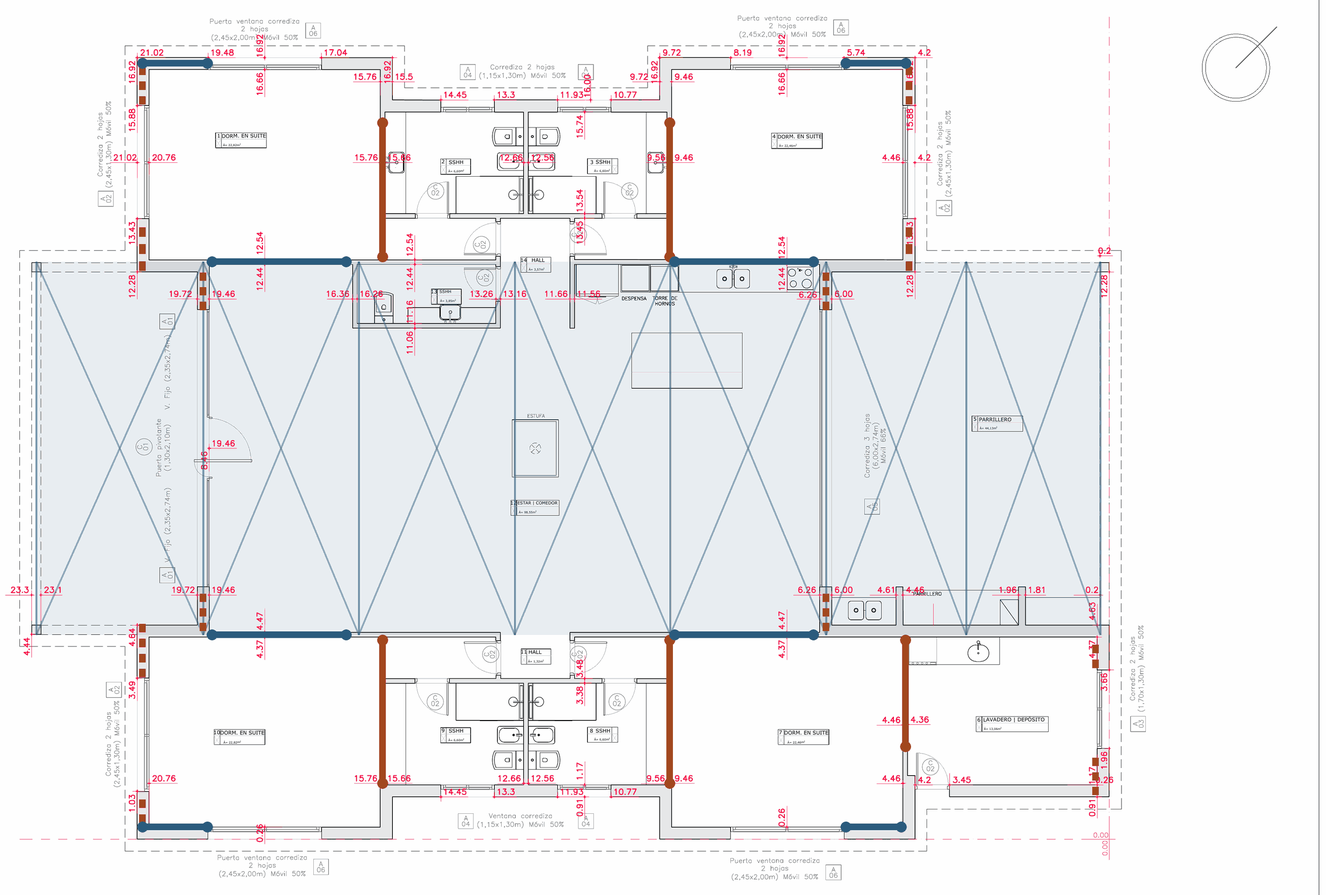
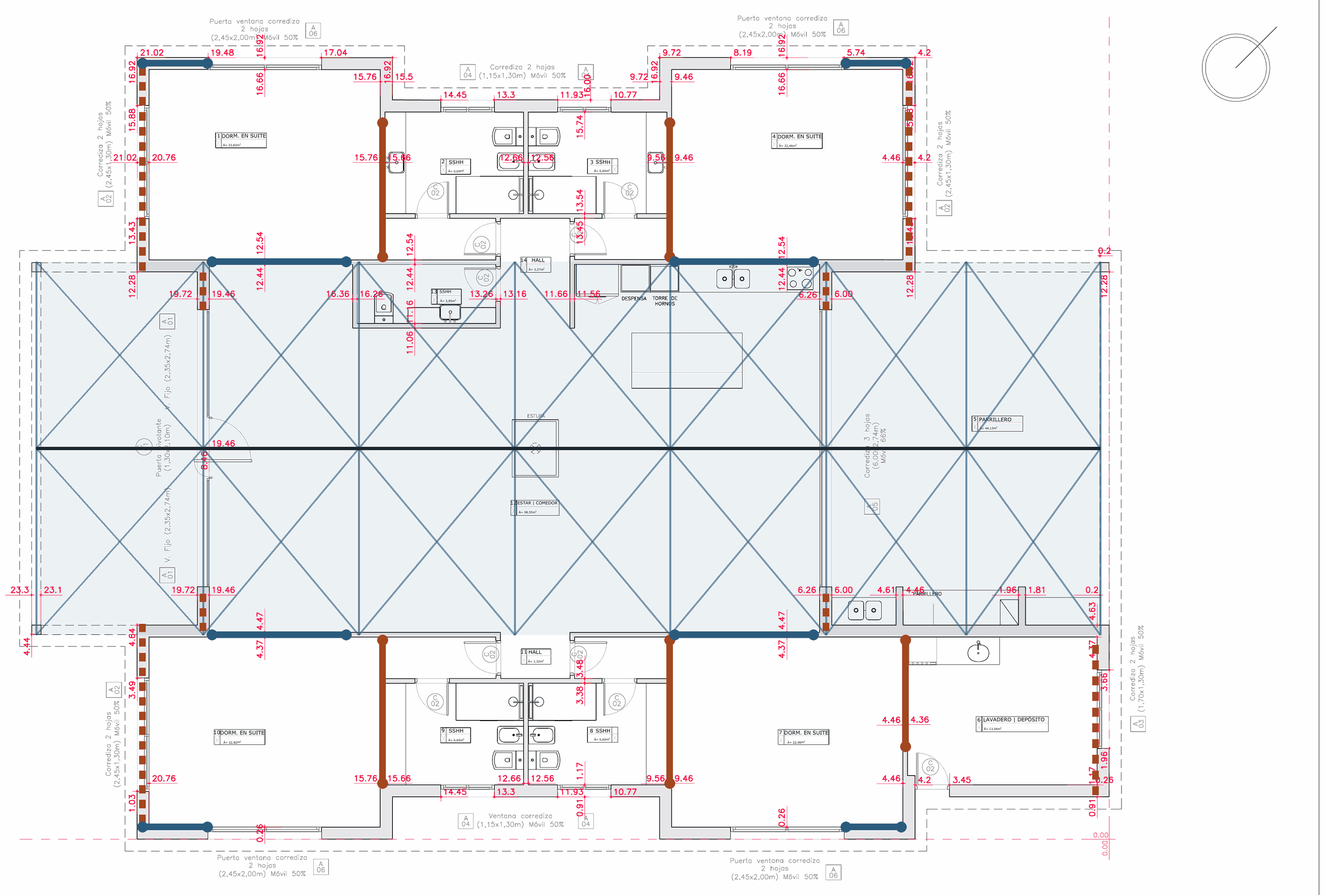
Estudio de techo: cercha tecnica, herrajes ocultos, Isoroof y cruces en fleje
- Alzado tecnico de la cercha y detalle del empalme del tirante con planchuela embutida
- Pestaña nueva del techo Isoroof
- Cruces de San Andres en fleje de steel framing, una por faldon y por paño

Claude-Session: https://claude.ai/code/session_0177j3xN1VyaLSuXgwCKdhyd

diff --git a/estudio-techo/index.html b/estudio-techo/index.html
@@ -67,68 +67,84 @@ a{color:var(--steel)}
 
 <nav class="tabs" aria-label="Partes del estudio"><div class="wrap" role="tablist">
 <button role="tab" data-t="resumen">Resumen</button>
-<button role="tab" data-t="cercha">Cercha</button>
+<button role="tab" data-t="cercha">Cercha y herrajes</button>
 <button role="tab" data-t="cargas">Cargas, columnas y encadenado</button>
+<button role="tab" data-t="techo">Techo Isoroof</button>
 <button role="tab" data-t="cruces">Viento y cruces</button>
 <button role="tab" data-t="anclajes">Anclajes</button>
 </div></nav>
-
 <main class="wrap">
 
 <section class="panel" id="resumen">
-<h2>Columnas y encadenado en caño 100 × 100 × 3,2 mm</h2>
-<p class="lead">Nave central de cerchas de lapacho 20 × 20 con 8,05 m de luz, sobre columnas de caño de 3,00 m, con cubierta de Isoroof 30 mm sobre machimbre.</p>
+<h2>Columnas y encadenado en caño 100 × 100 × 3,2 mm, arriostrados con cruces de steel framing</h2>
+<p class="lead">Nave central de cerchas de lapacho 20 × 20 con 8,05 m de luz, sobre columnas de caño de 3,00 m. Techo a dos aguas de 23,9 m de largo, con Isoroof 30 mm sobre machimbre.</p>
 <div class="grid">
 <div class="stat w"><b>950 kg</b><span>pesa cada cercha de lapacho</span></div>
 <div class="stat"><b>2,1 t</b><span>recibe cada columna en servicio</span></div>
 <div class="stat s"><b>3,2 mm</b><span>espesor de pared para columnas y encadenado, en 100 × 100</span></div>
-<div class="stat"><b>13 cruces</b><span>de San Andrés en muros, más el plano del techo</span></div>
+<div class="stat"><b>27 cruces</b><span>de San Andrés en fleje: 13 en muros y 14 en el techo</span></div>
 </div>
 <div class="tw"><table>
 <tr><th>Tema</th><th>Resultado</th></tr>
-<tr><td>Cercha</td><td>950 kg cada una; pesa más que el techo que sostiene</td></tr>
-<tr><td>Columnas</td><td>Caño 100 × 100 × 3,2 mm; el de 2 mm se descarta</td></tr>
-<tr><td>Encadenado superior</td><td>Caño 100 × 100 × 3,2 mm, el mismo de las columnas</td></tr>
-<tr><td>Acero</td><td>ASTM A500 Grado B, galvanizado o con epoxi por la cercanía al mar</td></tr>
-<tr><td>Arriostramiento</td><td>5 cruces transversales, 8 longitudinales y cruces en el techo</td></tr>
-<tr><td>Anclajes</td><td>Cada apoyo se ancla para 0,9 t de tracción por viento</td></tr>
+<tr><td>Cercha</td><td>950 kg cada una. Tirante en dos tramos de 4,02 m unidos con planchuela embutida</td></tr>
+<tr><td>Herrajes</td><td>Ocultos: planchuelas de 8 mm en ranura y pasadores Ø16 con tapón de lapacho</td></tr>
+<tr><td>Columnas y encadenado</td><td>Caño 100 × 100 × 3,2 mm, acero ASTM A500 Grado B</td></tr>
+<tr><td>Techo</td><td>Isoroof 30 mm sobre machimbre: 48 paneles de 1,00 × 4,30 m en la nave</td></tr>
+<tr><td>Arriostramiento</td><td>Cruces de San Andrés con fleje galvanizado de steel framing, en muros y techo</td></tr>
+<tr><td>Anclajes</td><td>Cada apoyo se ancla para tracción por viento</td></tr>
 </table></div>
 </section>
 
 <section class="panel" id="cercha">
-<h2>Cada cercha pesa 950 kg</h2>
-<figure><svg viewBox="0 0 1400 420" role="img" aria-label="Alzado de la cercha con cotas">
-<polygon points="100,330 1300,330 1300,286.6 700,69 100,286.6" fill="#C98A5B" stroke="#1C2730" stroke-width="2.5"/>
-<polygon points="149.9,300.2 685.1,300.2 685.1,106.1" fill="#fff" stroke="#1C2730" stroke-width="2.5"/>
-<polygon points="1250.1,300.2 714.9,300.2 714.9,106.1" fill="#fff" stroke="#1C2730" stroke-width="2.5"/>
-<polygon points="685.1,300.2 405.7,207.4 450.9,191 685.1,268.8" fill="#C98A5B" stroke="#1C2730" stroke-width="2.5"/>
-<polygon points="714.9,300.2 994.3,207.4 949.1,191 714.9,268.8" fill="#C98A5B" stroke="#1C2730" stroke-width="2.5"/>
-<rect x="107.5" y="331" width="15" height="42" fill="#2B5C7E"/><rect x="1277.5" y="331" width="15" height="42" fill="#2B5C7E"/>
-<g stroke="#4B5661" stroke-width="1.5" fill="none">
-<line x1="100" y1="398" x2="1300" y2="398"/><line x1="100" y1="388" x2="100" y2="408"/><line x1="1300" y1="388" x2="1300" y2="408"/>
-<line x1="50" y1="69" x2="50" y2="330"/><line x1="40" y1="69" x2="690" y2="69" stroke-dasharray="6 6"/><line x1="40" y1="330" x2="95" y2="330"/>
-<line x1="1350" y1="286.6" x2="1350" y2="330"/><line x1="1305" y1="286.6" x2="1360" y2="286.6"/><line x1="1305" y1="330" x2="1360" y2="330"/>
-<line x1="713.6" y1="31.4" x2="1313.6" y2="249"/><line x1="703" y1="60" x2="717" y2="22"/><line x1="1303" y1="278" x2="1317" y2="240"/>
-</g>
-<g font-family="IBM Plex Mono, Courier New, monospace" font-size="22" fill="#1C2730">
-<rect x="640" y="384" width="120" height="28" fill="#fff"/><text x="700" y="406" text-anchor="middle">8,05 m</text>
-<text x="38" y="200" text-anchor="middle" transform="rotate(-90 38 200)">1,75 m</text>
-<text x="1396" y="358" text-anchor="end">0,29 m</text>
-<text x="1040" y="118">4,28 m</text>
-<text x="250" y="170" fill="#A3481F">19,9° · 36 %</text>
-</g>
-</svg>
-<figcaption>Todas las piezas en lapacho 20 × 20 cm. Apoya en una columna de caño en cada extremo, sin apoyo intermedio.</figcaption>
+<h2>Cada cercha pesa 950 kg y lleva los herrajes ocultos</h2>
+<figure><svg viewBox="0 0 1400 545" role="img" aria-label="Alzado técnico de la cercha tipo con cotas, ejes y nudos"><style>.o{stroke:#000;stroke-width:1.8;fill:none}.h{stroke:#000;stroke-width:1.1;fill:none}.d{stroke:#000;stroke-width:.8;fill:none}.t{stroke:#000;stroke-width:1.6}.c{stroke:#000;stroke-width:.7;stroke-dasharray:18 4 3 4;fill:none}.hid{stroke:#000;stroke-width:1.2;stroke-dasharray:7 4;fill:none}text{fill:#000}</style><rect x="1" y="1" width="1398" height="543" class="d"/><defs><pattern id="hw" width="9" height="9" patternUnits="userSpaceOnUse" patternTransform="rotate(45)"><line x1="0" y1="0" x2="0" y2="9" stroke="#000" stroke-width=".6"/></pattern><pattern id="hs" width="4" height="4" patternUnits="userSpaceOnUse" patternTransform="rotate(-45)"><line x1="0" y1="0" x2="0" y2="4" stroke="#000" stroke-width="1.1"/></pattern></defs><polygon points="100,370 1300,370 1300,326.6 700,109 100,326.6" class="o"/><polygon points="149.9,340.2 685.1,340.2 685.1,146.1" class="o"/><polygon points="1250.1,340.2 714.9,340.2 714.9,146.1" class="o"/><polygon points="685.1,340.2 405.7,247.4 450.9,231 685.1,308.8" style="fill:#fff" class="o"/><polygon points="714.9,340.2 994.3,247.4 949.1,231 714.9,308.8" style="fill:#fff" class="o"/><line x1="100" y1="340.2" x2="149.9" y2="340.2" class="h"/><line x1="1250.1" y1="340.2" x2="1300" y2="340.2" class="h"/><line x1="685.1" y1="146.1" x2="685.1" y2="114.4" class="h"/><line x1="714.9" y1="146.1" x2="714.9" y2="114.4" class="h"/><line x1="700" y1="340.2" x2="700" y2="370" class="t"/><line x1="70" y1="355.1" x2="1330" y2="355.1" class="c"/><line x1="700" y1="80" x2="700" y2="390" class="c"/><line x1="80" y1="349.7" x2="712" y2="120.5" class="c"/><line x1="1320" y1="349.7" x2="688" y2="120.5" class="c"/><rect x="107.5" y="371" width="15" height="50" style="fill:url(#hs)" class="o"/><rect x="1277.5" y="371" width="15" height="50" style="fill:url(#hs)" class="o"/><line x1="100.0" y1="449.0" x2="700.0" y2="449.0" class="d"/><line x1="100.0" y1="427.0" x2="100.0" y2="457.0" class="d"/><line x1="93.0" y1="442.0" x2="107.0" y2="456.0" class="t"/><line x1="700.0" y1="427.0" x2="700.0" y2="457.0" class="d"/><line x1="693.0" y1="442.0" x2="707.0" y2="456.0" class="t"/><text x="400.0" y="436.0" text-anchor="middle" dominant-baseline="middle" transform="rotate(0.0 400.0 436.0)" font-size="17" font-family="'IBM Plex Mono','Courier New',monospace">4,02</text><line x1="700.0" y1="449.0" x2="1300.0" y2="449.0" class="d"/><line x1="700.0" y1="427.0" x2="700.0" y2="457.0" class="d"/><line x1="693.0" y1="442.0" x2="707.0" y2="456.0" class="t"/><line x1="1300.0" y1="427.0" x2="1300.0" y2="457.0" class="d"/><line x1="1293.0" y1="442.0" x2="1307.0" y2="456.0" class="t"/><text x="1000.0" y="436.0" text-anchor="middle" dominant-baseline="middle" transform="rotate(0.0 1000.0 436.0)" font-size="17" font-family="'IBM Plex Mono','Courier New',monospace">4,02</text><line x1="100.0" y1="483.0" x2="1300.0" y2="483.0" class="d"/><line x1="100.0" y1="427.0" x2="100.0" y2="491.0" class="d"/><line x1="93.0" y1="476.0" x2="107.0" y2="490.0" class="t"/><line x1="1300.0" y1="427.0" x2="1300.0" y2="491.0" class="d"/><line x1="1293.0" y1="476.0" x2="1307.0" y2="490.0" class="t"/><text x="700.0" y="470.0" text-anchor="middle" dominant-baseline="middle" transform="rotate(0.0 700.0 470.0)" font-size="17" font-family="'IBM Plex Mono','Courier New',monospace">8,05</text><line x1="42.0" y1="370.0" x2="42.0" y2="109.0" class="d"/><line x1="94.0" y1="370.0" x2="34.0" y2="370.0" class="d"/><line x1="49.0" y1="377.0" x2="35.0" y2="363.0" class="t"/><line x1="94.0" y1="109.0" x2="34.0" y2="109.0" class="d"/><line x1="49.0" y1="116.0" x2="35.0" y2="102.0" class="t"/><text x="50.0" y="241.0" text-anchor="start" dominant-baseline="middle" font-size="17" font-family="'IBM Plex Mono','Courier New',monospace">1,75</text><line x1="48" y1="109" x2="690" y2="109" class="d" stroke-dasharray="5 5"/><line x1="1340.0" y1="326.6" x2="1340.0" y2="370.0" class="d"/><line x1="1306.0" y1="326.6" x2="1348.0" y2="326.6" class="d"/><line x1="1333.0" y1="319.6" x2="1347.0" y2="333.6" class="t"/><line x1="1306.0" y1="370.0" x2="1348.0" y2="370.0" class="d"/><line x1="1333.0" y1="363.0" x2="1347.0" y2="377.0" class="t"/><text x="1350.0" y="349.0" text-anchor="start" dominant-baseline="middle" font-size="17" font-family="'IBM Plex Mono','Courier New',monospace">0,29</text><line x1="713.6" y1="71.4" x2="1313.6" y2="289.0" class="d"/><line x1="702.0" y1="103.4" x2="716.4" y2="63.9" class="d"/><line x1="704.7" y1="75.6" x2="722.6" y2="67.2" class="t"/><line x1="1302.0" y1="321.0" x2="1316.4" y2="281.5" class="d"/><line x1="1304.7" y1="293.2" x2="1322.6" y2="284.8" class="t"/><text x="1030.0" y="162.0" text-anchor="middle" dominant-baseline="middle" transform="rotate(19.9 1030.0 162.0)" font-size="17" font-family="'IBM Plex Mono','Courier New',monospace">4,28</text><line x1="215.0" y1="340.2" x2="215.0" y2="370.0" class="d"/><line x1="222.0" y1="333.2" x2="208.0" y2="347.2" class="t"/><line x1="222.0" y1="363.0" x2="208.0" y2="377.0" class="t"/><text x="227.0" y="356.0" text-anchor="start" dominant-baseline="middle" font-size="17" font-family="'IBM Plex Mono','Courier New',monospace">0,20</text><circle cx="72" cy="302" r="15" style="fill:#fff" class="o"/><text x="72" y="303" text-anchor="middle" dominant-baseline="middle" font-size="17" font-weight="500" font-family="'IBM Plex Mono','Courier New',monospace">A</text><line x1="118" y1="336" x2="84" y2="311" class="d"/><circle cx="118" cy="336" r="2.5" fill="#000"/><circle cx="1328" cy="302" r="15" style="fill:#fff" class="o"/><text x="1328" y="303" text-anchor="middle" dominant-baseline="middle" font-size="17" font-weight="500" font-family="'IBM Plex Mono','Courier New',monospace">A</text><line x1="1282" y1="336" x2="1316" y2="311" class="d"/><circle cx="1282" cy="336" r="2.5" fill="#000"/><circle cx="700" cy="54" r="15" style="fill:#fff" class="o"/><text x="700" y="55" text-anchor="middle" dominant-baseline="middle" font-size="17" font-weight="500" font-family="'IBM Plex Mono','Courier New',monospace">B</text><line x1="700" y1="124" x2="700" y2="69" class="d"/><circle cx="700" cy="124" r="2.5" fill="#000"/><circle cx="760" cy="392" r="15" style="fill:#fff" class="o"/><text x="760" y="393" text-anchor="middle" dominant-baseline="middle" font-size="17" font-weight="500" font-family="'IBM Plex Mono','Courier New',monospace">C</text><line x1="704" y1="358" x2="749" y2="384" class="d"/><circle cx="704" cy="358" r="2.5" fill="#000"/><circle cx="380" cy="190" r="15" style="fill:#fff" class="o"/><text x="380" y="191" text-anchor="middle" dominant-baseline="middle" font-size="17" font-weight="500" font-family="'IBM Plex Mono','Courier New',monospace">D</text><line x1="428" y1="238" x2="391" y2="200" class="d"/><circle cx="428" cy="238" r="2.5" fill="#000"/><circle cx="1020" cy="190" r="15" style="fill:#fff" class="o"/><text x="1020" y="191" text-anchor="middle" dominant-baseline="middle" font-size="17" font-weight="500" font-family="'IBM Plex Mono','Courier New',monospace">D</text><line x1="972" y1="238" x2="1009" y2="200" class="d"/><circle cx="972" cy="238" r="2.5" fill="#000"/><rect x="317" y="342" width="26" height="26" style="fill:#fff" class="o"/><text x="330" y="356" text-anchor="middle" dominant-baseline="middle" font-size="16" font-family="'IBM Plex Mono','Courier New',monospace">1</text><rect x="1057" y="342" width="26" height="26" style="fill:#fff" class="o"/><text x="1070" y="356" text-anchor="middle" dominant-baseline="middle" font-size="16" font-family="'IBM Plex Mono','Courier New',monospace">1</text><rect x="267" y="264" width="26" height="26" style="fill:#fff" class="o"/><text x="280" y="278" text-anchor="middle" dominant-baseline="middle" font-size="16" font-family="'IBM Plex Mono','Courier New',monospace">2</text><rect x="1107" y="264" width="26" height="26" style="fill:#fff" class="o"/><text x="1120" y="278" text-anchor="middle" dominant-baseline="middle" font-size="16" font-family="'IBM Plex Mono','Courier New',monospace">2</text><rect x="687" y="217" width="26" height="26" style="fill:#fff" class="o"/><text x="700" y="231" text-anchor="middle" dominant-baseline="middle" font-size="16" font-family="'IBM Plex Mono','Courier New',monospace">3</text><rect x="547" y="270" width="26" height="26" style="fill:#fff" class="o"/><text x="560" y="284" text-anchor="middle" dominant-baseline="middle" font-size="16" font-family="'IBM Plex Mono','Courier New',monospace">4</text><rect x="827" y="270" width="26" height="26" style="fill:#fff" class="o"/><text x="840" y="284" text-anchor="middle" dominant-baseline="middle" font-size="16" font-family="'IBM Plex Mono','Courier New',monospace">4</text><text x="24" y="528" font-size="16" font-family="'IBM Plex Mono','Courier New',monospace">CERCHA TIPO · ALZADO · ESC. 1:50 · COTAS EN METROS · LAPACHO 20 × 20 cm</text><text x="1376" y="528" text-anchor="end" font-size="16" font-family="'IBM Plex Mono','Courier New',monospace">19,9° · PENDIENTE 36 %</text></svg>
+<figcaption>Piezas: 1 tirante en dos tramos, 2 pares, 3 pendolón, 4 diagonales. Nudos: A talón, B cumbrera, C nudo central con empalme, D diagonal con par.</figcaption>
 </figure>
+<h3>Despiece y peso</h3>
 <div class="tw"><table>
 <tr><th>Pieza</th><th class="n">Cant.</th><th class="n">Largo (m)</th><th class="n">Total (ml)</th><th class="n">Peso (kg)</th></tr>
-<tr><td>Tirante inferior</td><td class="n">1</td><td class="n">8,05</td><td class="n">8,05</td><td class="n">354</td></tr>
-<tr><td>Pares</td><td class="n">2</td><td class="n">4,28</td><td class="n">8,56</td><td class="n">376</td></tr>
-<tr><td>Pendolón</td><td class="n">1</td><td class="n">1,32</td><td class="n">1,32</td><td class="n">58</td></tr>
-<tr><td>Diagonales</td><td class="n">2</td><td class="n">1,87</td><td class="n">3,74</td><td class="n">164</td></tr>
-<tr class="tot"><td>Total por cercha</td><td></td><td></td><td class="n">21,66</td><td class="n">≈ 950</td></tr>
+<tr><td>1 · Tirante inferior, en dos tramos</td><td class="n">2</td><td class="n">4,02</td><td class="n">8,05</td><td class="n">354</td></tr>
+<tr><td>2 · Pares</td><td class="n">2</td><td class="n">4,28</td><td class="n">8,56</td><td class="n">376</td></tr>
+<tr><td>3 · Pendolón</td><td class="n">1</td><td class="n">1,32</td><td class="n">1,32</td><td class="n">58</td></tr>
+<tr><td>4 · Diagonales</td><td class="n">2</td><td class="n">1,87</td><td class="n">3,74</td><td class="n">164</td></tr>
+<tr class="tot"><td>Total por cercha</td><td class="n"></td><td class="n"></td><td class="n">21,66</td><td class="n">≈ 950</td></tr>
 </table></div>
 <p class="note">Lapacho a 1.100 kg/m³: 44 kg por metro lineal de pieza 20 × 20.</p>
+
+<h3>Esfuerzo en cada pieza</h3>
+<div class="tw"><table>
+<tr><th>Pieza</th><th>Trabaja a</th><th class="n">En servicio</th><th class="n">Mayorado</th></tr>
+<tr><td>Tirante</td><td>Tracción</td><td class="n">3,1 t</td><td class="n">4,3 t</td></tr>
+<tr><td>Pares</td><td>Compresión</td><td class="n">3,3 t</td><td class="n">4,6 t</td></tr>
+<tr><td>Pendolón</td><td>Tracción</td><td class="n">0,9 t</td><td class="n">1,2 t</td></tr>
+<tr><td>Diagonales</td><td>Compresión</td><td class="n">1,0 t</td><td class="n">1,4 t</td></tr>
+</table></div>
+<p>El tirante trabaja estirado en toda su longitud: el empalme del centro tiene que transmitir 4,3 t de tracción.</p>
+
+<h3>Empalme del tirante con planchuela embutida</h3>
+<figure><svg viewBox="0 0 1400 610" role="img" aria-label="Detalle del nudo central: planchuela en T invertida embutida en el tirante y el pendolón, con pasadores ocultos; alzado y corte"><style>.o{stroke:#000;stroke-width:1.8;fill:none}.h{stroke:#000;stroke-width:1.1;fill:none}.d{stroke:#000;stroke-width:.8;fill:none}.t{stroke:#000;stroke-width:1.6}.c{stroke:#000;stroke-width:.7;stroke-dasharray:18 4 3 4;fill:none}.hid{stroke:#000;stroke-width:1.2;stroke-dasharray:7 4;fill:none}text{fill:#000}</style><defs><pattern id="hw" width="9" height="9" patternUnits="userSpaceOnUse" patternTransform="rotate(45)"><line x1="0" y1="0" x2="0" y2="9" stroke="#000" stroke-width=".6"/></pattern><pattern id="hs" width="4" height="4" patternUnits="userSpaceOnUse" patternTransform="rotate(-45)"><line x1="0" y1="0" x2="0" y2="4" stroke="#000" stroke-width="1.1"/></pattern></defs><rect x="1" y="1" width="1398" height="608" class="d"/><line x1="55" y1="290" x2="350.0" y2="290" class="o"/><line x1="510.0" y1="290" x2="805" y2="290" class="o"/><line x1="55" y1="450.0" x2="805" y2="450.0" class="o"/><path d="M55,282 L55,350 L47,362 L63,378 L55,390 L55,458.0" class="d"/><path d="M805,282 L805,350 L797,362 L813,378 L805,390 L805,458.0" class="d"/><line x1="430" y1="290" x2="430" y2="450.0" class="t"/><line x1="350.0" y1="290" x2="350.0" y2="40" class="o"/><line x1="510.0" y1="290" x2="510.0" y2="40" class="o"/><path d="M342.0,40 L400.0,40 L412.0,32 L428.0,48 L440.0,40 L518.0,40" class="d"/><line x1="350.0" y1="290" x2="180.0" y2="233.6" class="o"/><line x1="350.0" y1="121.5" x2="180.0" y2="65.1" class="o"/><path d="M180.0,241.6 L180.0,183.6 L172.0,171.6 L188.0,155.6 L180.0,143.6 L180.0,57.1" class="d"/><line x1="510.0" y1="290" x2="680.0" y2="233.6" class="o"/><line x1="510.0" y1="121.5" x2="680.0" y2="65.1" class="o"/><path d="M680.0,241.6 L680.0,183.6 L672.0,171.6 L688.0,155.6 L680.0,143.6 L680.0,57.1" class="d"/><path d="M210.0,298.0 L370.0,298.0 L370.0,82.0 L490.0,82.0 L490.0,298.0 L650.0,298.0 L650.0,418.0 L210.0,418.0 Z" class="hid"/><circle cx="246.0" cy="334.0" r="7.4" style="fill:#fff" class="o"/><line x1="235.0" y1="334.0" x2="257.0" y2="334.0" class="d"/><line x1="246.0" y1="323.0" x2="246.0" y2="345.0" class="d"/><circle cx="246.0" cy="390.0" r="7.4" style="fill:#fff" class="o"/><line x1="235.0" y1="390.0" x2="257.0" y2="390.0" class="d"/><line x1="246.0" y1="379.0" x2="246.0" y2="401.0" class="d"/><circle cx="334.0" cy="334.0" r="7.4" style="fill:#fff" class="o"/><line x1="323.0" y1="334.0" x2="345.0" y2="334.0" class="d"/><line x1="334.0" y1="323.0" x2="334.0" y2="345.0" class="d"/><circle cx="334.0" cy="390.0" r="7.4" style="fill:#fff" class="o"/><line x1="323.0" y1="390.0" x2="345.0" y2="390.0" class="d"/><line x1="334.0" y1="379.0" x2="334.0" y2="401.0" class="d"/><circle cx="526.0" cy="334.0" r="7.4" style="fill:#fff" class="o"/><line x1="515.0" y1="334.0" x2="537.0" y2="334.0" class="d"/><line x1="526.0" y1="323.0" x2="526.0" y2="345.0" class="d"/><circle cx="526.0" cy="390.0" r="7.4" style="fill:#fff" class="o"/><line x1="515.0" y1="390.0" x2="537.0" y2="390.0" class="d"/><line x1="526.0" y1="379.0" x2="526.0" y2="401.0" class="d"/><circle cx="614.0" cy="334.0" r="7.4" style="fill:#fff" class="o"/><line x1="603.0" y1="334.0" x2="625.0" y2="334.0" class="d"/><line x1="614.0" y1="323.0" x2="614.0" y2="345.0" class="d"/><circle cx="614.0" cy="390.0" r="7.4" style="fill:#fff" class="o"/><line x1="603.0" y1="390.0" x2="625.0" y2="390.0" class="d"/><line x1="614.0" y1="379.0" x2="614.0" y2="401.0" class="d"/><circle cx="430.0" cy="194.0" r="7.4" style="fill:#fff" class="o"/><line x1="419.0" y1="194.0" x2="441.0" y2="194.0" class="d"/><line x1="430.0" y1="183.0" x2="430.0" y2="205.0" class="d"/><circle cx="430.0" cy="130.0" r="7.4" style="fill:#fff" class="o"/><line x1="419.0" y1="130.0" x2="441.0" y2="130.0" class="d"/><line x1="430.0" y1="119.0" x2="430.0" y2="141.0" class="d"/><line x1="210.0" y1="482.0" x2="246.0" y2="482.0" class="d"/><line x1="210.0" y1="456.0" x2="210.0" y2="490.0" class="d"/><line x1="203.0" y1="475.0" x2="217.0" y2="489.0" class="t"/><line x1="246.0" y1="456.0" x2="246.0" y2="490.0" class="d"/><line x1="239.0" y1="475.0" x2="253.0" y2="489.0" class="t"/><text x="228.0" y="497.0" text-anchor="middle" dominant-baseline="middle" transform="rotate(0.0 228.0 497.0)" font-size="15" font-family="'IBM Plex Mono','Courier New',monospace">40</text><line x1="246.0" y1="482.0" x2="334.0" y2="482.0" class="d"/><line x1="246.0" y1="456.0" x2="246.0" y2="490.0" class="d"/><line x1="239.0" y1="475.0" x2="253.0" y2="489.0" class="t"/><line x1="334.0" y1="456.0" x2="334.0" y2="490.0" class="d"/><line x1="327.0" y1="475.0" x2="341.0" y2="489.0" class="t"/><text x="290.0" y="497.0" text-anchor="middle" dominant-baseline="middle" transform="rotate(0.0 290.0 497.0)" font-size="15" font-family="'IBM Plex Mono','Courier New',monospace">110</text><line x1="334.0" y1="482.0" x2="430.0" y2="482.0" class="d"/><line x1="334.0" y1="456.0" x2="334.0" y2="490.0" class="d"/><line x1="327.0" y1="475.0" x2="341.0" y2="489.0" class="t"/><line x1="430.0" y1="456.0" x2="430.0" y2="490.0" class="d"/><line x1="423.0" y1="475.0" x2="437.0" y2="489.0" class="t"/><text x="382.0" y="497.0" text-anchor="middle" dominant-baseline="middle" transform="rotate(0.0 382.0 497.0)" font-size="15" font-family="'IBM Plex Mono','Courier New',monospace">120</text><line x1="430.0" y1="482.0" x2="526.0" y2="482.0" class="d"/><line x1="430.0" y1="456.0" x2="430.0" y2="490.0" class="d"/><line x1="423.0" y1="475.0" x2="437.0" y2="489.0" class="t"/><line x1="526.0" y1="456.0" x2="526.0" y2="490.0" class="d"/><line x1="519.0" y1="475.0" x2="533.0" y2="489.0" class="t"/><text x="478.0" y="497.0" text-anchor="middle" dominant-baseline="middle" transform="rotate(0.0 478.0 497.0)" font-size="15" font-family="'IBM Plex Mono','Courier New',monospace">120</text><line x1="526.0" y1="482.0" x2="614.0" y2="482.0" class="d"/><line x1="526.0" y1="456.0" x2="526.0" y2="490.0" class="d"/><line x1="519.0" y1="475.0" x2="533.0" y2="489.0" class="t"/><line x1="614.0" y1="456.0" x2="614.0" y2="490.0" class="d"/><line x1="607.0" y1="475.0" x2="621.0" y2="489.0" class="t"/><text x="570.0" y="497.0" text-anchor="middle" dominant-baseline="middle" transform="rotate(0.0 570.0 497.0)" font-size="15" font-family="'IBM Plex Mono','Courier New',monospace">110</text><line x1="614.0" y1="482.0" x2="650.0" y2="482.0" class="d"/><line x1="614.0" y1="456.0" x2="614.0" y2="490.0" class="d"/><line x1="607.0" y1="475.0" x2="621.0" y2="489.0" class="t"/><line x1="650.0" y1="456.0" x2="650.0" y2="490.0" class="d"/><line x1="643.0" y1="475.0" x2="657.0" y2="489.0" class="t"/><text x="632.0" y="497.0" text-anchor="middle" dominant-baseline="middle" transform="rotate(0.0 632.0 497.0)" font-size="15" font-family="'IBM Plex Mono','Courier New',monospace">40</text><line x1="210.0" y1="520.0" x2="650.0" y2="520.0" class="d"/><line x1="210.0" y1="456.0" x2="210.0" y2="528.0" class="d"/><line x1="203.0" y1="513.0" x2="217.0" y2="527.0" class="t"/><line x1="650.0" y1="456.0" x2="650.0" y2="528.0" class="d"/><line x1="643.0" y1="513.0" x2="657.0" y2="527.0" class="t"/><text x="430.0" y="535.0" text-anchor="middle" dominant-baseline="middle" transform="rotate(0.0 430.0 535.0)" font-size="16" font-family="'IBM Plex Mono','Courier New',monospace">550</text><line x1="700.0" y1="290.0" x2="700.0" y2="334.0" class="d"/><line x1="707.0" y1="283.0" x2="693.0" y2="297.0" class="t"/><line x1="707.0" y1="327.0" x2="693.0" y2="341.0" class="t"/><text x="712.0" y="313.0" text-anchor="start" dominant-baseline="middle" font-size="15" font-family="'IBM Plex Mono','Courier New',monospace">55</text><line x1="700.0" y1="334.0" x2="700.0" y2="390.0" class="d"/><line x1="707.0" y1="327.0" x2="693.0" y2="341.0" class="t"/><line x1="707.0" y1="383.0" x2="693.0" y2="397.0" class="t"/><text x="712.0" y="363.0" text-anchor="start" dominant-baseline="middle" font-size="15" font-family="'IBM Plex Mono','Courier New',monospace">70</text><line x1="700.0" y1="390.0" x2="700.0" y2="450.0" class="d"/><line x1="707.0" y1="383.0" x2="693.0" y2="397.0" class="t"/><line x1="707.0" y1="443.0" x2="693.0" y2="457.0" class="t"/><text x="712.0" y="421.0" text-anchor="start" dominant-baseline="middle" font-size="15" font-family="'IBM Plex Mono','Courier New',monospace">75</text><line x1="840.0" y1="290.0" x2="840.0" y2="450.0" class="d"/><line x1="847.0" y1="283.0" x2="833.0" y2="297.0" class="t"/><line x1="847.0" y1="443.0" x2="833.0" y2="457.0" class="t"/><text x="852.0" y="371.0" text-anchor="start" dominant-baseline="middle" font-size="16" font-family="'IBM Plex Mono','Courier New',monospace">200</text><line x1="496.0" y1="290" x2="668.0" y2="290" class="d"/><line x1="660.0" y1="290.0" x2="660.0" y2="194.0" class="d"/><line x1="653.0" y1="297.0" x2="667.0" y2="283.0" class="t"/><line x1="653.0" y1="201.0" x2="667.0" y2="187.0" class="t"/><text x="672.0" y="243.0" text-anchor="start" dominant-baseline="middle" font-size="15" font-family="'IBM Plex Mono','Courier New',monospace">120</text><line x1="496.0" y1="194.0" x2="668.0" y2="194.0" class="d"/><line x1="660.0" y1="194.0" x2="660.0" y2="130.0" class="d"/><line x1="653.0" y1="201.0" x2="667.0" y2="187.0" class="t"/><line x1="653.0" y1="137.0" x2="667.0" y2="123.0" class="t"/><text x="672.0" y="163.0" text-anchor="start" dominant-baseline="middle" font-size="15" font-family="'IBM Plex Mono','Courier New',monospace">80</text><line x1="496.0" y1="130.0" x2="668.0" y2="130.0" class="d"/><line x1="660.0" y1="130.0" x2="660.0" y2="82.0" class="d"/><line x1="653.0" y1="137.0" x2="667.0" y2="123.0" class="t"/><line x1="653.0" y1="89.0" x2="667.0" y2="75.0" class="t"/><text x="672.0" y="107.0" text-anchor="start" dominant-baseline="middle" font-size="15" font-family="'IBM Plex Mono','Courier New',monospace">60</text><line x1="496.0" y1="82.0" x2="668.0" y2="82.0" class="d"/><text x="70" y="402" font-size="14" font-family="'IBM Plex Mono','Courier New',monospace">TIRANTE</text><text x="70" y="420" font-size="14" font-family="'IBM Plex Mono','Courier New',monospace">20×20</text><text x="430" y="26" text-anchor="middle" font-size="15" font-family="'IBM Plex Mono','Courier New',monospace">PENDOLÓN 20×20</text><line x1="430" y1="324" x2="280" y2="568.0" class="d"/><circle cx="430" cy="324" r="2.5" fill="#000"/><text x="274" y="573.0" text-anchor="end" font-size="15" font-family="'IBM Plex Mono','Courier New',monospace">JUNTA A TOPE</text><line x1="628.0" y1="410.0" x2="600" y2="568.0" class="d"/><circle cx="628.0" cy="410.0" r="2.5" fill="#000"/><text x="606" y="573.0" font-size="15" font-family="'IBM Plex Mono','Courier New',monospace">PLANCHUELA 8 mm (OCULTA)</text><text x="430" y="592" text-anchor="middle" font-size="16" font-family="'IBM Plex Mono','Courier New',monospace">ALZADO NUDO C · ESC. 1:10 · COTAS EN mm</text><rect x="985" y="70" width="300.0" height="300.0" style="fill:url(#hw)" class="o"/><rect x="1127.5" y="70" width="15.0" height="247.5" style="fill:#fff" class="h"/><rect x="1129.0" y="85.0" width="12.0" height="225.0" style="fill:#000"/><rect x="1127.5" y="70" width="15.0" height="13.5" style="fill:url(#hs)" class="h"/><rect x="992.5" y="140.5" width="285.0" height="24.0" style="fill:#fff" class="o"/><rect x="985" y="139.0" width="7.5" height="27.0" style="fill:url(#hs)" class="h"/><rect x="1277.5" y="139.0" width="7.5" height="27.0" style="fill:url(#hs)" class="h"/><rect x="1129.0" y="140.5" width="12.0" height="24.0" style="fill:#000"/><rect x="992.5" y="245.5" width="285.0" height="24.0" style="fill:#fff" class="o"/><rect x="985" y="244.0" width="7.5" height="27.0" style="fill:url(#hs)" class="h"/><rect x="1277.5" y="244.0" width="7.5" height="27.0" style="fill:url(#hs)" class="h"/><rect x="1129.0" y="245.5" width="12.0" height="24.0" style="fill:#000"/><line x1="985.0" y1="400.0" x2="1285.0" y2="400.0" class="d"/><line x1="985.0" y1="376.0" x2="985.0" y2="408.0" class="d"/><line x1="978.0" y1="393.0" x2="992.0" y2="407.0" class="t"/><line x1="1285.0" y1="376.0" x2="1285.0" y2="408.0" class="d"/><line x1="1278.0" y1="393.0" x2="1292.0" y2="407.0" class="t"/><text x="1135.0" y="415.0" text-anchor="middle" dominant-baseline="middle" transform="rotate(0.0 1135.0 415.0)" font-size="16" font-family="'IBM Plex Mono','Courier New',monospace">200</text><line x1="955.0" y1="70.0" x2="955.0" y2="317.5" class="d"/><line x1="979.0" y1="70.0" x2="947.0" y2="70.0" class="d"/><line x1="962.0" y1="63.0" x2="948.0" y2="77.0" class="t"/><line x1="979.0" y1="317.5" x2="947.0" y2="317.5" class="d"/><line x1="962.0" y1="310.5" x2="948.0" y2="324.5" class="t"/><text x="945.0" y="194.0" text-anchor="end" dominant-baseline="middle" font-size="15" font-family="'IBM Plex Mono','Courier New',monospace">165</text><line x1="1135.0" y1="76.0" x2="1325.0" y2="82" class="d"/><circle cx="1135.0" cy="76.0" r="2.5" fill="#000"/><circle cx="1337.0" cy="82" r="12" style="fill:#fff" class="o"/><text x="1337.0" y="83" text-anchor="middle" dominant-baseline="middle" font-size="15" font-family="'IBM Plex Mono','Courier New',monospace">1</text><line x1="1135.0" y1="208.0" x2="1325.0" y2="208.0" class="d"/><circle cx="1135.0" cy="208.0" r="2.5" fill="#000"/><circle cx="1337.0" cy="208.0" r="12" style="fill:#fff" class="o"/><text x="1337.0" y="209.0" text-anchor="middle" dominant-baseline="middle" font-size="15" font-family="'IBM Plex Mono','Courier New',monospace">2</text><line x1="1210.0" y1="257.5" x2="1325.0" y2="295.0" class="d"/><circle cx="1210.0" cy="257.5" r="2.5" fill="#000"/><circle cx="1337.0" cy="295.0" r="12" style="fill:#fff" class="o"/><text x="1337.0" y="296.0" text-anchor="middle" dominant-baseline="middle" font-size="15" font-family="'IBM Plex Mono','Courier New',monospace">3</text><line x1="1280.5" y1="152.5" x2="1325.0" y2="142.0" class="d"/><circle cx="1280.5" cy="152.5" r="2.5" fill="#000"/><circle cx="1337.0" cy="142.0" r="12" style="fill:#fff" class="o"/><text x="1337.0" y="143.0" text-anchor="middle" dominant-baseline="middle" font-size="15" font-family="'IBM Plex Mono','Courier New',monospace">4</text><text x="945" y="452.0" font-size="15" font-family="'IBM Plex Mono','Courier New',monospace">1  LISTÓN DE LAPACHO ENCOLADO</text><text x="945" y="474.0" font-size="15" font-family="'IBM Plex Mono','Courier New',monospace">2  PLANCHUELA 8 mm EN RANURA DE 10</text><text x="945" y="496.0" font-size="15" font-family="'IBM Plex Mono','Courier New',monospace">3  PASADOR LISO Ø16 × 190</text><text x="945" y="518.0" font-size="15" font-family="'IBM Plex Mono','Courier New',monospace">4  TAPÓN DE LAPACHO Ø18</text><text x="1135.0" y="592" text-anchor="middle" font-size="16" font-family="'IBM Plex Mono','Courier New',monospace">CORTE DEL TIRANTE · ESC. 1:5</text></svg>
+<figcaption>Nudo C. Una sola planchuela en T invertida une los dos tramos del tirante y cuelga del pendolón. Queda dentro de una ranura hecha desde la cara superior: desde abajo no se ve.</figcaption>
+</figure>
+<div class="tw"><table>
+<tr><th>Elemento</th><th>Medida</th></tr>
+<tr><td>Planchuela</td><td>8 mm de espesor, 550 mm de largo y 150 mm de alto, con alma de 150 × 260 mm hacia el pendolón</td></tr>
+<tr><td>Corte</td><td>Se saca entera de una chapa de 550 × 410 × 8 mm</td></tr>
+<tr><td>Ranura en la madera</td><td>10 mm de ancho y 165 mm de profundidad, desde la cara superior</td></tr>
+<tr><td>Pasadores</td><td>10 lisos de Ø16 × 190 mm: 4 en cada tramo del tirante y 2 en el pendolón</td></tr>
+<tr><td>Terminación</td><td>Tapón de lapacho Ø18 en cada extremo de pasador y listón encolado cerrando la ranura</td></tr>
+<tr><td>Resistencia</td><td>11,6 t por lado frente a 4,3 t de tracción: trabaja al 37 %</td></tr>
+<tr><td>Material</td><td>Acero galvanizado en caliente; agujeros de 17 mm en la chapa y de 16 mm justos en la madera</td></tr>
+</table></div>
+
+<h3>Herrajes ocultos en los demás nudos</h3>
+<div class="tw"><table>
+<tr><th>Nudo</th><th>Esfuerzo mayorado</th><th>Herraje oculto</th></tr>
+<tr><td>A · Talón, par con tirante</td><td>4,6 t de compresión en el par; 4,3 t de empuje horizontal</td><td>Planchuela interna de 8 mm con 3 pasadores Ø16 en el par y 3 en el tirante</td></tr>
+<tr><td>B · Cumbrera, pares con pendolón</td><td>1,2 t de tracción en el pendolón</td><td>Planchuela interna de 8 mm con 2 pasadores Ø16 por pieza</td></tr>
+<tr><td>C · Nudo central</td><td>4,3 t de tracción en el tirante</td><td>T invertida de 8 mm, detallada arriba</td></tr>
+<tr><td>D · Diagonal con par y con pendolón</td><td>1,4 t de compresión</td><td>Barbilla de 30 mm y 1 pasador Ø12 de posición</td></tr>
+</table></div>
+
 <h3>Opciones para alivianarla</h3>
 <div class="tw"><table class="k">
 <tr><th>Sección (ancho × canto)</th><th class="n">Peso por cercha</th><th class="n">Ahorro</th><th>Vista de frente</th></tr>
@@ -136,21 +152,23 @@ a{color:var(--steel)}
 <tr><td>15 × 20 cm</td><td class="n">710 kg</td><td class="n">24 %</td><td>Idéntica</td></tr>
 <tr><td>10 × 20 cm</td><td class="n">470 kg</td><td class="n">50 %</td><td>Idéntica</td></tr>
 </table></div>
-<p>La madera trabaja a unos 10 kg/cm², muy por debajo de lo que resiste: la sección 20 × 20 responde a la imagen, no a la carga. Reducir sólo el ancho mantiene los 20 cm en el alzado.</p>
+
+<p>La madera trabaja a unos 10 kg/cm²: la sección 20 × 20 responde a la imagen, no a la carga. Con menos de 15 cm de ancho los pasadores de Ø16 pierden agarre y hay que recalcular los herrajes.</p>
 </section>
 
 <section class="panel" id="cargas">
-<h2>Cada columna recibe 2,1 t y se resuelve con caño de 3,2 mm</h2>
+<h2>Cada cercha lleva 3,1 t y cada columna recibe 2,1 t</h2>
 <h3>1. Carga sobre cada cercha</h3>
 <div class="tw"><table>
-<tr><th>Concepto</th><th class="n">kg por cercha</th></tr>
-<tr><td>Cercha de lapacho 20 × 20</td><td class="n">950</td></tr>
-<tr><td>Herrajes y bulones</td><td class="n">50</td></tr>
-<tr><td>Cubierta: Isoroof 30 mm, machimbre y clavaderas (26 kg/m²)</td><td class="n">755</td></tr>
-<tr><td>Sobrecarga de uso y mantenimiento (50 kg/m²)</td><td class="n">1.356</td></tr>
-<tr class="tot"><td>Total por cercha</td><td class="n">3.111</td></tr>
+<tr><th>Concepto</th><th>Cuenta</th><th class="n">kg por cercha</th></tr>
+<tr><td>Cercha de lapacho 20 × 20</td><td>21,66 ml × 44 kg/ml</td><td class="n">950</td></tr>
+<tr><td>Herrajes y pasadores</td><td></td><td class="n">50</td></tr>
+<tr><td>Cubierta: Isoroof, machimbre y correas</td><td>28,8 m² × 26,2 kg/m²</td><td class="n">755</td></tr>
+<tr class="pick"><td>Peso propio</td><td></td><td class="n">1.755</td></tr>
+<tr><td>Sobrecarga de uso y mantenimiento</td><td>27,1 m² × 50 kg/m²</td><td class="n">1.356</td></tr>
+<tr class="tot"><td>Total por cercha</td><td></td><td class="n">3.111</td></tr>
 </table></div>
-<p class="note">Cerchas cada 3,37 m, según el plano de obra.</p>
+<p>Las 3,1 t se verifican: 1,76 t son peso propio permanente y 1,36 t son sobrecarga, que sólo actúa con gente o materiales sobre el techo. Cerchas cada 3,37 m, según el plano de obra.</p>
 <h3>2. Carga sobre cada columna</h3>
 <div class="tw"><table>
 <tr><th>Concepto</th><th class="n">kg por columna</th></tr>
@@ -161,6 +179,7 @@ a{color:var(--steel)}
 <tr class="tot"><td>Total en servicio</td><td class="n">2.133</td></tr>
 <tr class="tot"><td>Total mayorado para el cálculo</td><td class="n">2.976</td></tr>
 </table></div>
+
 <h3>3. Espesor de las columnas</h3>
 <div class="tw"><table class="k">
 <tr><th>Caño (mm)</th><th class="n">kg/m</th><th class="n">Resiste</th><th class="n">Uso con carga vertical</th><th class="n">Uso con viento</th><th>Resultado</th></tr>
@@ -169,6 +188,7 @@ a{color:var(--steel)}
 <tr class="pick"><td>100 × 100 × 3,2</td><td class="n">9,6</td><td class="n">20,6 t</td><td class="n">14 %</td><td class="n">23 %</td><td>Recomendado</td></tr>
 <tr><td>100 × 100 × 4,0</td><td class="n">11,8</td><td class="n">25,4 t</td><td class="n">12 %</td><td class="n">19 %</td><td>Sobrado</td></tr>
 </table></div>
+
 <p>El peso no es el problema: hasta el caño de 2 mm lo soporta. El de 2 mm se descarta porque su pared abolla antes de agotar el acero, no deja reserva frente al viento y es delicado de soldar.</p>
 <h3>4. Espesor del encadenado superior</h3>
 <div class="tw"><table class="k">
@@ -177,7 +197,8 @@ a{color:var(--steel)}
 <tr><td>100 × 100 × 2,5</td><td class="n">7,6</td><td class="n">80 %</td><td class="n">7 mm</td><td>Verifica, con poco margen</td></tr>
 <tr class="pick"><td>100 × 100 × 3,2</td><td class="n">9,6</td><td class="n">64 %</td><td class="n">5 mm</td><td>Recomendado</td></tr>
 </table></div>
-<p>El peso de la cercha no pasa por el encadenado: baja directo a la columna. El encadenado ata las cabezas de columna y recibe el viento del muro, unos 195 kg por metro, en vanos de 3 m.</p>
+
+<p>El peso de la cercha no pasa por el encadenado: baja directo a la columna. El encadenado ata las cabezas de columna, recibe el viento del muro y trabaja como cordón de las cruces del techo.</p>
 <div class="callout s"><p><b>Condición:</b> cada cercha y cada tirante de los cuerpos laterales apoya sobre una columna, nunca a mitad de vano del encadenado.</p></div>
 <h3>Especificación</h3>
 <div class="tw"><table>
@@ -189,29 +210,83 @@ a{color:var(--steel)}
 </table></div>
 </section>
 
+<section class="panel" id="techo">
+<h2>Techo de la nave: 48 paneles Isoroof de 30 mm en dos faldones</h2>
+<div class="grid">
+<div class="stat"><b>2 × 23,9 m</b><span>dos faldones a lo largo de la nave, de 4,28 m de caída cada uno</span></div>
+<div class="stat"><b>205 m²</b><span>de cubierta en la nave central</span></div>
+<div class="stat"><b>36 %</b><span>de pendiente; el panel pide 7 % como mínimo</span></div>
+<div class="stat s"><b>10 kg/m²</b><span>pesa el panel de 30 mm</span></div>
+</div>
+<h3>El panel</h3>
+<div class="tw"><table>
+<tr><th>Característica</th><th>Dato</th></tr>
+<tr><td>Tipo</td><td>Isoroof de 30 mm: chapa trapezoidal prepintada arriba y núcleo aislante de PIR</td></tr>
+<tr><td>Ancho útil</td><td>1,00 m</td></tr>
+<tr><td>Largo</td><td>A medida, de una sola pieza por faldón; el mínimo de fábrica es 3,50 m</td></tr>
+<tr><td>Colocación</td><td>En el sentido de la caída del agua, de cumbrera a alero</td></tr>
+<tr><td>Peso</td><td>10,2 kg/m²</td></tr>
+</table></div>
+
+<h3>Cantidades para la nave</h3>
+<div class="tw"><table>
+<tr><th>Ítem</th><th class="n">Cantidad</th><th>Detalle</th></tr>
+<tr><td>Paneles Isoroof 30 mm</td><td class="n">48</td><td>24 por faldón, de 1,00 × 4,30 m más el vuelo de alero</td></tr>
+<tr><td>Cumbrera</td><td class="n">23,9 m</td><td>Cumbrera metálica con sellado, a lo largo de toda la nave</td></tr>
+<tr><td>Correas</td><td class="n">7 líneas</td><td>3 por faldón y la cumbrera, de cercha a cercha; en el alero apoya en el encadenado</td></tr>
+<tr><td>Machimbre</td><td class="n">205 m²</td><td>Visto desde abajo, entre las cerchas</td></tr>
+</table></div>
+<p class="note">Los techos de los cuerpos laterales se computan aparte.</p>
+<h3>Capas, de abajo hacia arriba</h3>
+<div class="tw"><table>
+<tr><th>Capa</th><th>Función</th><th class="n">kg/m²</th></tr>
+<tr><td>Cerchas de lapacho cada 3,37 m</td><td>Estructura principal</td><td class="n">—</td></tr>
+<tr><td>Correas de caño 100 × 50 × 2 de canto, cada 1,07 m</td><td>Llevan el techo de cercha a cercha</td><td class="n">4,2</td></tr>
+<tr><td>Machimbre de pino ¾"</td><td>Cielorraso visto</td><td class="n">10,0</td></tr>
+<tr><td>Flejes en cruz de San Andrés</td><td>Arriostran el plano del techo; quedan ocultos</td><td class="n">0,3</td></tr>
+<tr><td>Isoroof 30 mm</td><td>Cubierta y aislación</td><td class="n">10,2</td></tr>
+<tr><td>Fijaciones y babetas</td><td></td><td class="n">1,0</td></tr>
+<tr class="tot"><td>Total cubierta</td><td></td><td class="n">≈ 26</td></tr>
+</table></div>
+
+<div class="callout"><p><b>Correas.</b> Entre cercha y cercha hay 3,37 m: un caño 40 × 40 × 2 no alcanza para esa luz. Con caño 100 × 50 × 2 de canto cada 1,07 m la correa trabaja al 81 % con la succión del viento y flecha 8 mm con carga de uso.</p></div>
+</section>
+
 <section class="panel" id="cruces">
-<h2>El empuje del viento baja por los cuerpos de dormitorios</h2>
+<h2>Cruces de San Andrés en fleje de steel framing, en muros y en los dos faldones</h2>
 <div class="grid">
 <div class="stat"><b>158 km/h</b><span>viento de norma en la faja costera (118 kg/m²)</span></div>
 <div class="stat"><b>10,9 t</b><span>empuje transversal sobre la casa</span></div>
 <div class="stat"><b>6,5 t</b><span>empuje longitudinal</span></div>
 </div>
-<p>Los dos frentes del estar son vidriados y la galería y el parrillero son abiertos: en la nave no hay muros transversales. El techo lleva el empuje hasta los muros ciegos de los dormitorios.</p>
-<figure><img src="img/planta-cruces.png" alt="Plano de obra con las cruces propuestas marcadas sobre los muros y el plano del techo">
+<p>Los dos frentes del estar son vidriados y la galería y el parrillero son abiertos: en la nave no hay muros transversales. Los dos faldones del techo trabajan como vigas horizontales de 23,9 m que llevan el empuje hasta los muros de los dormitorios.</p>
+<figure><img src="img/planta-cruces.png" alt="Plano de obra con la cumbrera a lo largo de la nave, una cruz por faldón en cada uno de los siete paños entre cerchas, cinco cruces transversales en muros ciegos, ocho longitudinales y los muros de cierre con placa estructural">
 <ul class="legend">
+<li><i style="background:#1C2730;height:5px"></i>Cumbrera</li>
+<li><i style="background:#8FA5B5;height:5px"></i>Cruz de techo, una por faldón y por paño</li>
 <li><i style="background:#A3481F"></i>Cruz transversal</li>
-<li><i style="background:repeating-linear-gradient(90deg,#A3481F 0 5px,#fff 5px 9px)"></i>Paño angosto con placa estructural</li>
 <li><i style="background:#2B5C7E"></i>Cruz longitudinal</li>
-<li><i style="background:#DCE4EA;border:1px solid #2B5C7E;height:12px"></i>Cruces en el plano del techo</li>
+<li><i style="background:repeating-linear-gradient(90deg,#A3481F 0 5px,#fff 5px 9px)"></i>Muro o paño con placa estructural</li>
 </ul>
-<figcaption>Sobre el plano de obra de la Arq. Carolina Mannise, lámina L1.</figcaption></figure>
+<figcaption>Sobre el plano de obra de la Arq. Carolina Mannise, lámina L1. Las líneas finas que cruzan la nave son los ejes de cercha.</figcaption></figure>
 <div class="tw"><table>
-<tr><th>Tipo</th><th class="n">Cant.</th><th>Ubicación</th><th>Elemento</th></tr>
-<tr><td>Transversal</td><td class="n">5</td><td>Muros entre dormitorio y baño; muro entre dormitorio 7 y lavadero</td><td>Planchuela 2" × 1/4"</td></tr>
-<tr><td>Longitudinal</td><td class="n">8</td><td>Muros largos del estar y esquinas exteriores de los dormitorios</td><td>Planchuela 2" × 3/16"</td></tr>
-<tr><td>Techo</td><td class="n">7 paños</td><td>Entre todas las cerchas, en cada faldón, incluidos galería y parrillero</td><td>Planchuela 2" × 3/16" o tensor Ø16</td></tr>
-<tr><td>Paños angostos</td><td class="n">12</td><td>A cada lado de ventanas, vidrios fijos y corrediza</td><td>Placa estructural atornillada</td></tr>
+<tr><th>Cruces</th><th class="n">Cant.</th><th>Ubicación</th><th>Fleje galvanizado</th><th class="n">Uso</th></tr>
+<tr><td>Techo</td><td class="n">14</td><td>Una por faldón en cada uno de los 7 paños, sobre el machimbre</td><td>100 × 1,25 mm</td><td class="n">68 %</td></tr>
+<tr><td>Transversal</td><td class="n">4</td><td>Muros entre dormitorio y baño</td><td>Doble, 150 × 1,25 mm</td><td class="n">32 %</td></tr>
+<tr><td>Transversal</td><td class="n">1</td><td>Muro entre dormitorio 7 y lavadero</td><td>Doble, 150 × 1,25 mm</td><td class="n">86 %</td></tr>
+<tr><td>Longitudinal</td><td class="n">4</td><td>Muros largos del estar</td><td>100 × 1,25 mm</td><td class="n">64 %</td></tr>
+<tr><td>Longitudinal</td><td class="n">4</td><td>Esquinas exteriores de los dormitorios</td><td>150 × 1,25 mm</td><td class="n">71 %</td></tr>
 </table></div>
+<p class="note">Fleje doble: uno por cada cara del muro. Cada fleje se tensa y se fija con cartela a la columna y al encadenado, con un tornillo autoperforante por cada 0,2 t.</p>
+<div class="tw"><table>
+<tr><th>Línea transversal</th><th>Muros</th><th class="n">Empuje en servicio</th></tr>
+<tr><td>Dormitorios 1 y 10, muro de cierre</td><td>2 muros con ventana, con placa estructural</td><td class="n">2,2 t</td></tr>
+<tr><td>Dormitorio y baño, lado galería</td><td>2 cruces</td><td class="n">2,8 t</td></tr>
+<tr><td>Dormitorio y baño, lado parrillero</td><td>2 cruces</td><td class="n">1,7 t</td></tr>
+<tr><td>Lavadero y dormitorio 4</td><td>1 cruz y 1 muro con placa estructural</td><td class="n">3,8 t</td></tr>
+</table></div>
+
+<div class="callout s"><p><b>Cordones.</b> Para que cada faldón trabaje como viga hacen falta dos piezas continuas en los 23,9 m: la cumbrera y el encadenado de alero.</p></div>
 </section>
 
 <section class="panel" id="anclajes">
@@ -219,7 +294,7 @@ a{color:var(--steel)}
 <div class="grid">
 <div class="stat"><b>2,1 t</b><span>compresión por columna en servicio</span></div>
 <div class="stat w"><b>0,9 t</b><span>tracción por apoyo de cercha, por succión del viento</span></div>
-<div class="stat w"><b>2,4 t</b><span>tracción en la columna de cada cruz transversal</span></div>
+<div class="stat w"><b>4,4 t</b><span>tracción mayorada en la columna de la cruz del lavadero; 1,6 t en las demás</span></div>
 </div>
 <p>El viento succiona el techo con unas 3,3 t por cercha y el peso sólo retiene 1,5 t. La diferencia tira de cada apoyo hacia arriba.</p>
 <div class="tw"><table>

diff --git a/estudio-techo/README.md b/estudio-techo/README.md
@@ -1,5 +1,5 @@
 # Eden Rock · Estudio estructural del techo
 
-Página con pestañas: Resumen, Cercha, Cargas/columnas/encadenado, Viento y cruces, Anclajes.
+Página con pestañas: Resumen, Cercha y herrajes, Cargas/columnas/encadenado, Techo Isoroof, Viento y cruces, Anclajes.
 
-Enlace directo a cada pestaña: `#cercha`, `#cargas`, `#cruces`, `#anclajes`.
+Enlace directo a cada pestaña: `#cercha`, `#cargas`, `#techo`, `#cruces`, `#anclajes`.
